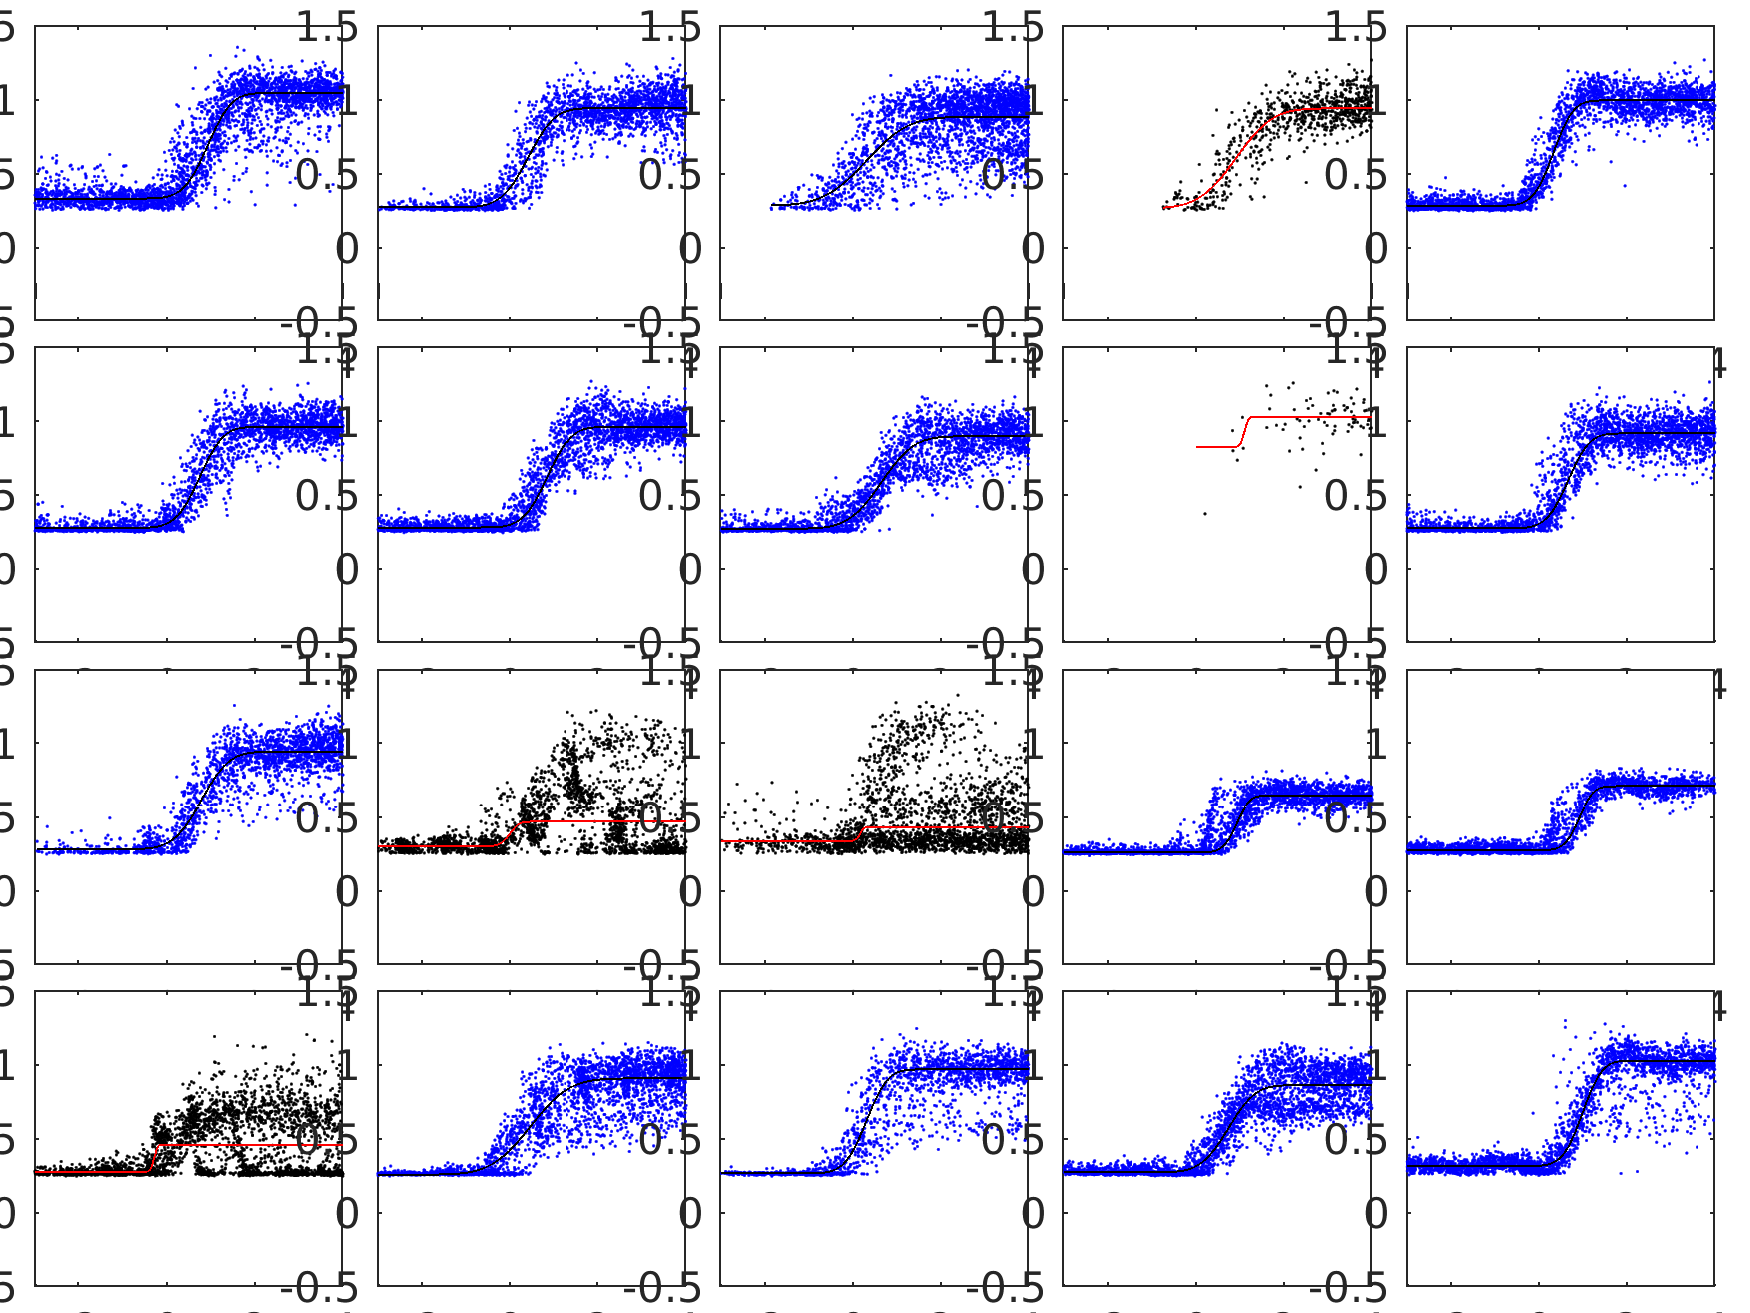
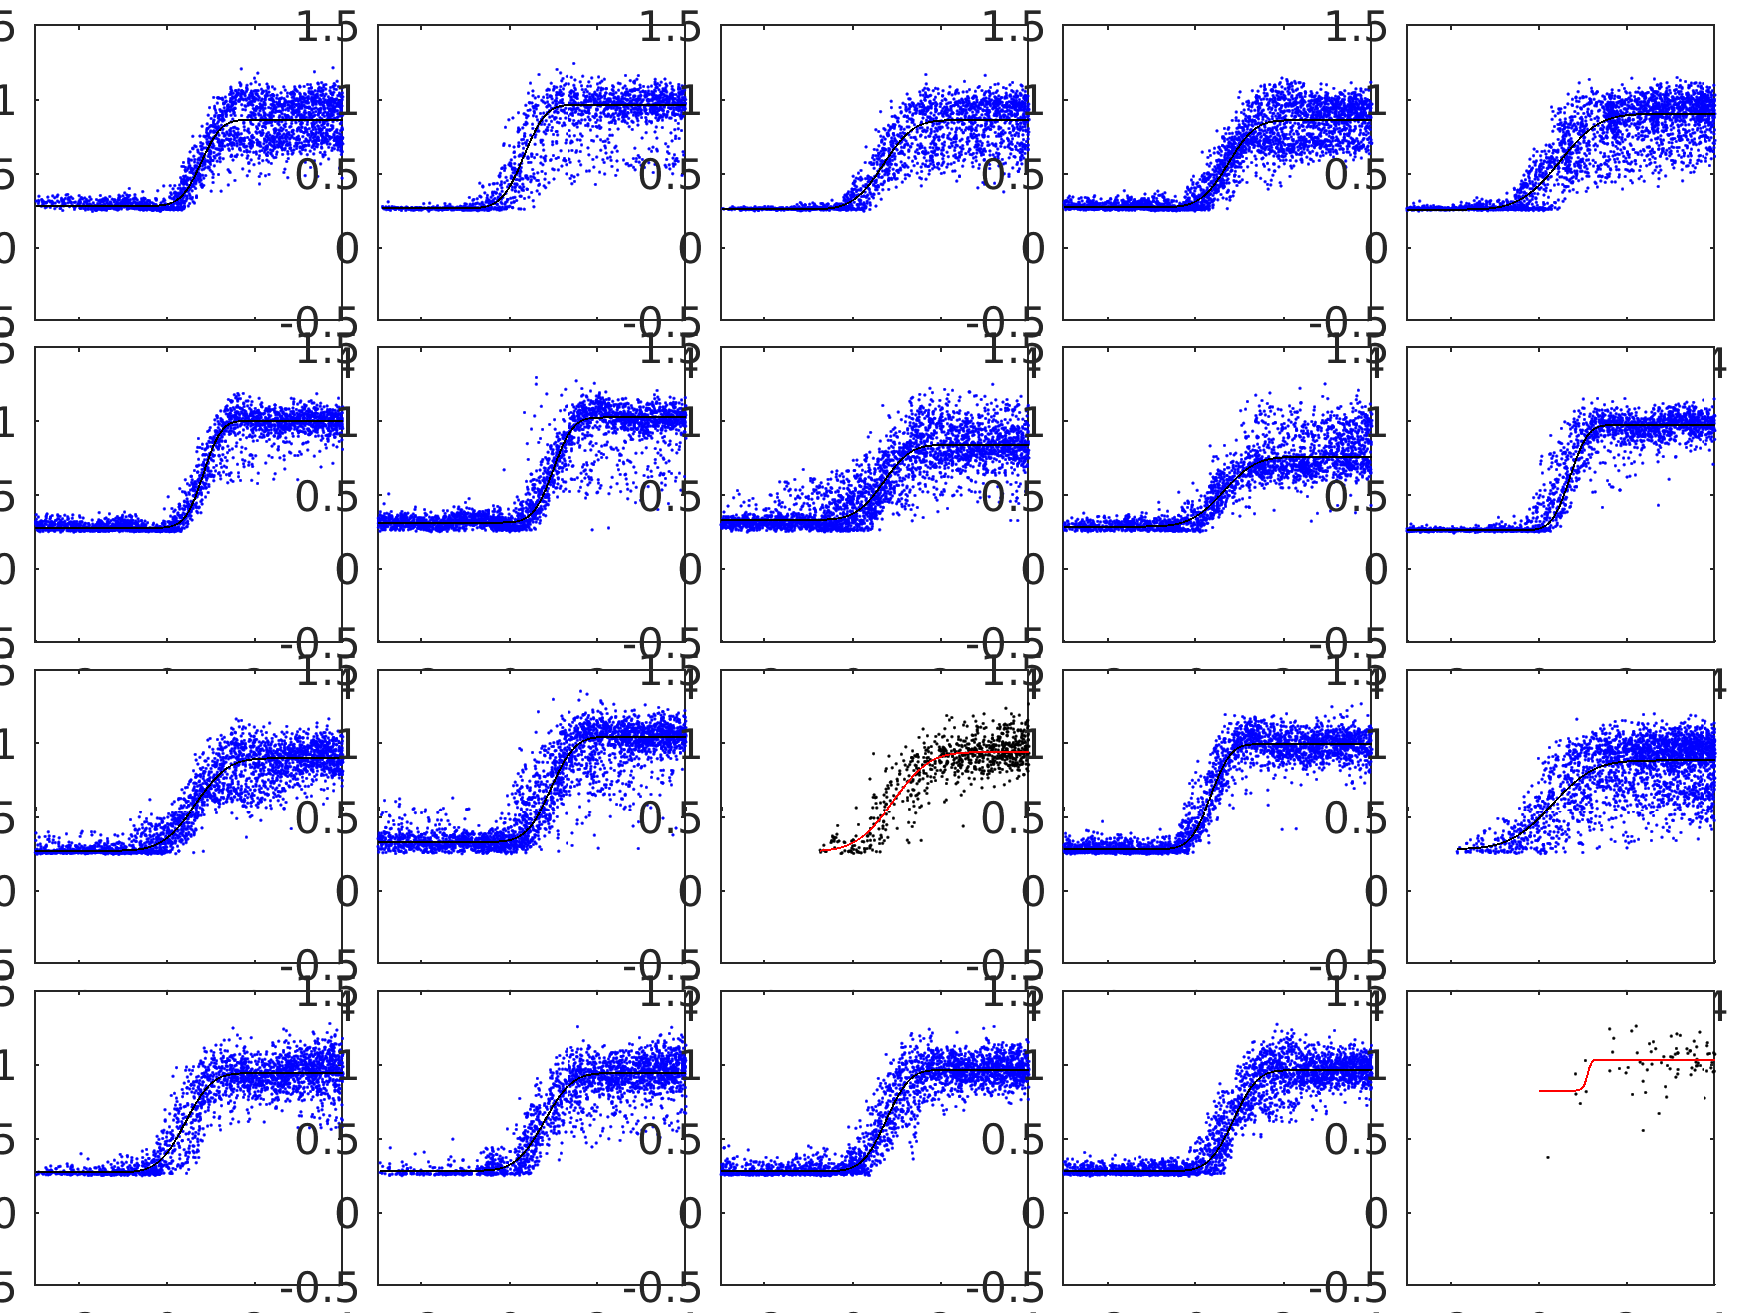
comparing reconstructed with ground truth

diff --git a/sharpness/convert.py b/sharpness/convert.py
@@ -17,21 +17,49 @@ t1corr_cruise_path = f'/data/projects/ahead/segmentations/cortex/sub-0{subj}_t1c
 t1uncorr_cruise_path = f'/data/projects/ahead/segmentations/cortex/sub-0{subj}_t1uncorr_cruise-gwb_ants-def0.nii'
 save_path = 'data/segm/cropped'
 
-segm = nib.load(base+segm_path+spec_segm).get_fdata()
-recon_nii = nib.load(recon_nii_path)
-r_nii = recon_nii.get_fdata()
-recon_h5 = h5py.File(base+recon_h5_path, 'r')
-recon_rim = recon_h5['R2star_map_gt']
-recon_mask = recon_h5['mask_brain']
-brain_mask = nib.load(base+brain_mask_path).get_fdata()
-sharp = nib.load(sharpness_path).get_fdata()
-sta = nib.load('data/segm/sub-t1corr_cruise-gwb_ants-def0.nii').get_fdata()
+# segm = nib.load(base+segm_path+spec_segm).get_fdata()
+# recon_nii = nib.load(recon_nii_path)
+# r_nii = recon_nii.get_fdata()
+# recon_h5 = h5py.File(base+recon_h5_path, 'r')
+# recon_rim = recon_h5['R2star_map_gt']
+# recon_mask = recon_h5['mask_brain']
+# brain_mask = nib.load(base+brain_mask_path).get_fdata()
+# sharp = nib.load(sharpness_path).get_fdata()
+# sta = nib.load('data/segm/sub-t1corr_cruise-gwb_ants-def0.nii').get_fdata()
 
-# crop grey white barrier t1corr map 
-t1corr_cruise_nii = nib.load(base+t1corr_cruise_path)
-t1uncorr_cruise_nii = nib.load(base+t1uncorr_cruise_path)
-t1corr_cruise = t1corr_cruise_nii.get_fdata()
-t1uncorr_cruise = t1uncorr_cruise_nii.get_fdata()
+# # crop grey white barrier t1corr map 
+# t1corr_cruise_nii = nib.load(base+t1corr_cruise_path)
+# t1uncorr_cruise_nii = nib.load(base+t1uncorr_cruise_path)
+# t1corr_cruise = t1corr_cruise_nii.get_fdata()
+# t1uncorr_cruise = t1uncorr_cruise_nii.get_fdata()
+
+reconscan = nib.load('data/064_r1corr.nii').get_fdata()
+fig, ax = plt.subplots(3,4)
+ax[0,0].imshow(reconscan[:,:,50], cmap='gray')
+ax[0,0].axis('off')
+ax[0,1].imshow(reconscan[:,:,100], cmap='gray')
+ax[0,1].axis('off')
+ax[0,2].imshow(reconscan[:,:,150], cmap='gray')
+ax[0,2].axis('off')
+ax[0,3].imshow(reconscan[:,:,200], cmap='gray')
+ax[0,3].axis('off')
+ax[1,0].imshow(reconscan[:,10,:], cmap='gray')
+ax[1,0].axis('off')
+ax[1,1].imshow(reconscan[:,20,:], cmap='gray')
+ax[1,1].axis('off')
+ax[1,2].imshow(reconscan[:,30,:], cmap='gray')
+ax[1,2].axis('off')
+ax[1,3].imshow(reconscan[:,40,:], cmap='gray')
+ax[1,3].axis('off')
+ax[2,0].imshow(reconscan[50,:,:], cmap='gray')
+ax[2,0].axis('off')
+ax[2,1].imshow(reconscan[100,:,:], cmap='gray')
+ax[2,1].axis('off')
+ax[2,2].imshow(reconscan[150,:,:], cmap='gray')
+ax[2,2].axis('off')
+ax[2,3].imshow(reconscan[200,:,:], cmap='gray')
+ax[2,3].axis('off')
+plt.show()
 
 
 start = 121

diff --git a/sharpness/mainSharpnessFatNav.m b/sharpness/mainSharpnessFatNav.m
@@ -25,18 +25,19 @@ if isempty(which('load_untouch_nii'))
   error('Install load_untouch_nii')
 end
 
-maindir=fileparts(which('mainSharpnessFatNav.m'))
+maindir=fileparts(which('mainSharpnessFatNav.m'));
 subjdir=fullfile(maindir,'data');
 codedir=fullfile(maindir,'code');
 addpath(codedir)
 
-plotsavedir=fullfile(maindir,'plots_saved') % main dir for saving ploits
+plotsavedir=fullfile(maindir,'plots_saved'); % main dir for saving ploits
 mkdir(plotsavedir)
 
 %% Get data
 
 % define some subject ID
 FileID.uIDs={'064'};
+FileID.type={'r2star'};
 
 % define ROIs to process
 % FileID.uROIs = {'vent', 'tha', 'str','gwb'};
@@ -47,7 +48,6 @@ FileID.uHEMs = {'l', 'r','4'};
 [map_corrall, t1_corrall, map_uncorrall, t1_uncorrall, MPos, voxRes] = ...
   getdataSharpnessFatNav(FileID, subjdir, 1);
 fields = fieldnames(map_corrall);
-
 % parameters
 run getParsFatNav
 
@@ -69,17 +69,16 @@ nUsedROI = 0;
 for ii=subj_ii
   % get data
   field_name = fields{ii};
-  disp(field_name)
   map_corr = map_corrall.(fields{ii}).img;
   data_corr = t1_corrall.(fields{ii});
 
   map_uncorr = map_uncorrall.(fields{ii}).img;
   data_uncorr = t1_uncorrall.(fields{ii});
+  data_uncorr=permute(data_uncorr,[2 3 1]);
 
   % do fitting
   [bs,ws,bc,bi,ar_list] = ...
     getsigmaclusterFatNav(map_corr,data_corr,data_uncorr,pars,field_name,plotsavedir);
-    disp(bs)
     % contine to next iteration if ROI is outside of scan
     if strcmp(bs, 'outside')
         continue
@@ -92,15 +91,14 @@ for ii=subj_ii
   % get motion parameters
   numcl(ii) = length(better_signed{ii});
   mot_mean{ii} = getmotionFatNav(map_corrall.(fields{ii}).img,brd_crds{ii},MPos.(fields{ii}),voxRes);
-  disp('motion params')
-  disp(numcl(ii))
-  disp(mot_mean(ii))
 end
-
+disp(length(AR))
+nUsedROI
 if length(AR) ~= nUsedROI
+    disp(size(better_signed))
     AR(nUsedROI+1:end) = [];
 end 
-disp(AR)
-disp('end')
 %% compute and print statistics
 run statsFatNav
+
+cd('../../')

diff --git a/sharpness/code/getsigmaclusterFatNav.m b/sharpness/code/getsigmaclusterFatNav.m
@@ -56,10 +56,9 @@ coords_R2 = cat(2, x_R2, y_R2, z_R2)./scale_c;
 coords_R3 = cat(2, x_R3, y_R3, z_R3)./scale_c;
 
 %% Clustering
-disp('kmeans size')
-disp(size(cat(2,coords_R3,I_R3_sm)))
-kar = cat(2,coords_R3,I_R3_sm);
-if sum(any(~isnan(kar), 1)) < 4
+% check whether ROI lies inside of brain slab
+nPotClusters = cat(2,coords_R3,I_R3_sm);
+if sum(any(~isnan(nPotClusters), 1)) < 4
     disp('Too many NaN values --> ROI lies outside of reconstructed image.')
     better_signed = 'outside';
     worse_signed = 'outside';
@@ -120,10 +119,10 @@ for p = 1:2
     map = map_corr; % map_corr is used here, as it was used for clustering as well. map_corr and map_uncorr are expected to be nearly identical.
     if p==1
         data = data_corr;
-        ctag='corr'
+        ctag='corr';
     else
         data = data_uncorr;
-        ctag='uncorr'
+        ctag='uncorr';
     end
     map(~mask)=mapInf;
 

diff --git a/sharpness/code/plotROIsFatNav.m b/sharpness/code/plotROIsFatNav.m
@@ -31,9 +31,19 @@ for iSubj=1:nsubj
    tmp(ROImap>0,:)=tmp(ROImap>0,:)+cl(ROImap(ROImap>0),:);
    tmp=reshape(tmp,[sz 3]);
    tmp=tmp/max(tmp(:));
-   im=im2mat(arr(rgb(tmp(:,:,50:10:200,:)))); 
+   
+   % permute to show reconsttucted images properly 
+   tmp=permute(tmp,[1 3 2 4]);
+   %ims=im2mat(arr(rgb(tmp(50:10:200,:,:,:)))); 
+   %ima=im2mat(arr(rgb(tmp(:,:,:,:)))); 
+   imc=im2mat(arr(rgb(tmp(:,:,:,:)))); 
 
    %im=im2mat(arr(tmp(:,:,50:10:200,:))); 
-   savename=fullfile(savedir,[FileID.uIDs{iSubj} '_ROIs.png']);
-   imwrite(im,savename);
+  %^savenames=fullfile(savedir,[FileID.uIDs{iSubj} '_ROIs_s.png']);
+   %savenamea=fullfile(savedir,[FileID.uIDs{iSubj} '_ROIs_a.png']);
+   savenamec=fullfile(savedir,[FileID.uIDs{iSubj} '_ROIs_c.png']);
+
+   %imwrite(ims,savenames);
+   %imwrite(ima,savenamea);
+   imwrite(imc,savenamec);
 end

diff --git a/sharpness/code/getdataSharpnessFatNav.m b/sharpness/code/getdataSharpnessFatNav.m
@@ -53,12 +53,11 @@ for iROI = 1:length(FileID.uROIs)
         
         % Load uncorrected and corrected data
         cd(datadir)  
-        filenamecorr = [FileID.uIDs{1}, '_', filetag,'corr.nii'];
-        filenamecorr
+        filenamecorr = [FileID.uIDs{1}, '_', FileID.type{1},'_rim.nii'];
         tmp=load_untouch_nii(filenamecorr);
         voxRes=double(tmp.hdr.dime.dim(2:4));
         subj_data_corr.(nm)=tmp.img;
-        filenameuncorr = [FileID.uIDs{1},'_',filetag,'uncorr.nii'];
+        filenameuncorr = [FileID.uIDs{1},'_',FileID.type{1},'_gt.nii'];
         tmp=load_untouch_nii(filenameuncorr);
         subj_data_uncorr.(nm)=tmp.img;
 

diff --git a/sharpness/code/statsFatNav.m b/sharpness/code/statsFatNav.m
@@ -117,9 +117,9 @@ csigma=csigma(doSubj); cu=cu(doSubj);
 disp('ROIs:')
 disp(fields')
 
-disp('FWHM uncorrected:')
+disp('FWHM ground truth:')
 disp(num2str(allsigmauncorr))
-disp('FWHM corrected:')
+disp('FWHM reconstructed (rim):')
 disp(num2str(allsigmacorr))
 disp('FWHM difference:')
 disp(num2str(allsigma))
